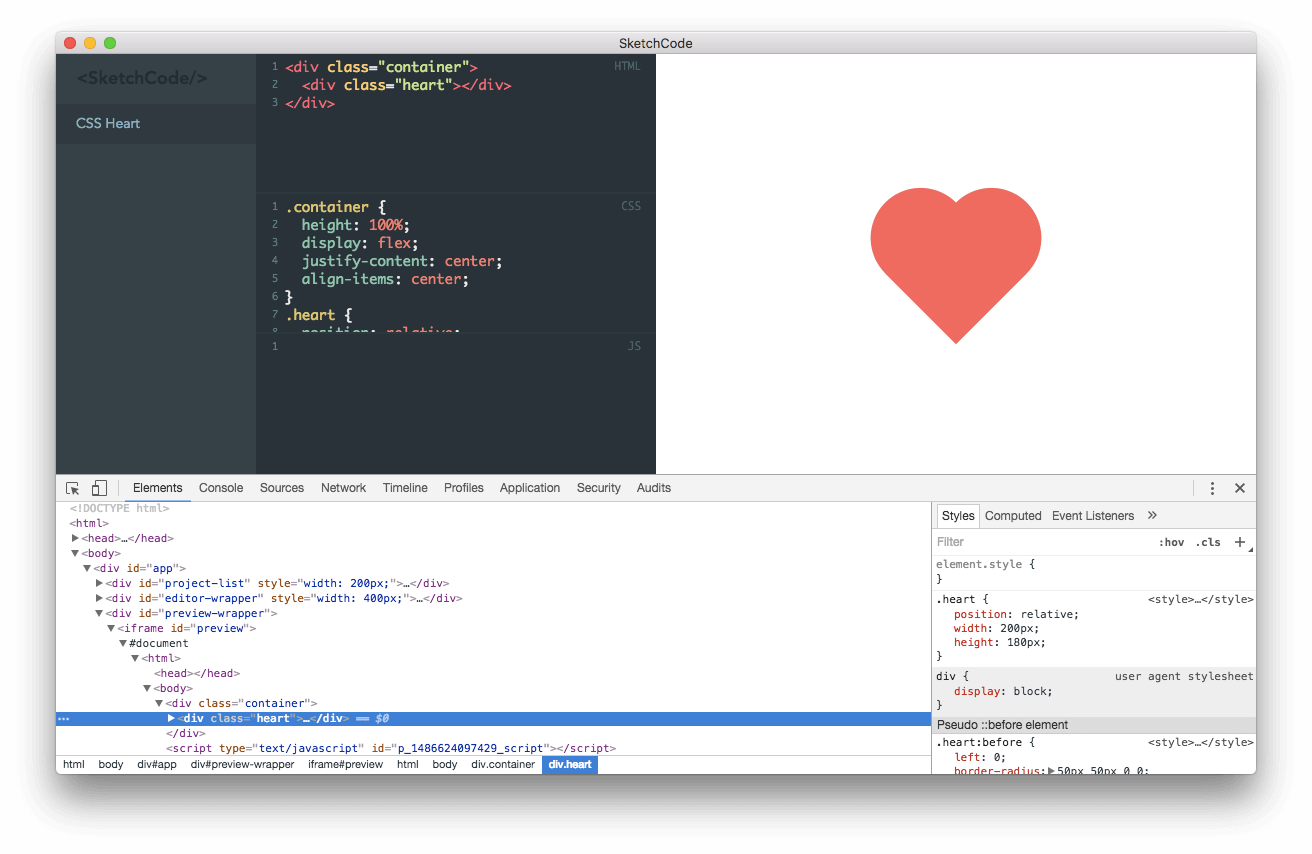
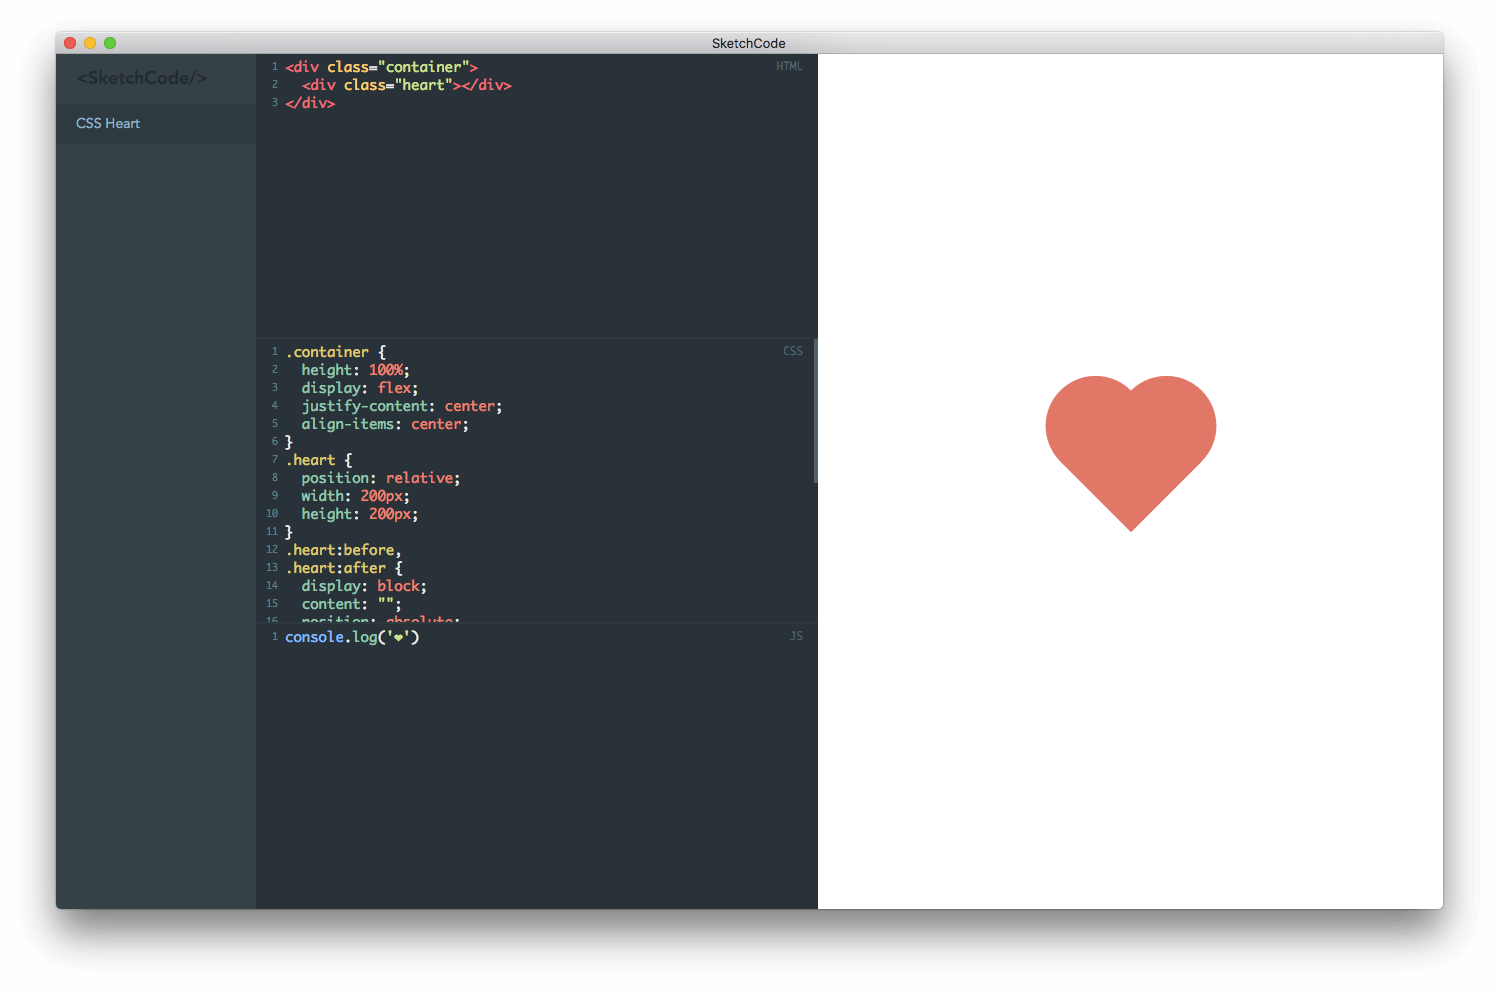
fix preview on launch

diff --git a/electron/dist/static/js/app.a2d74cfee815cdb54283.js b/electron/dist/static/js/app.a2d74cfee815cdb54283.js
@@ -1,0 +1,1 @@
+webpackJsonp([2,0],[function(t,e,i){"use strict";function n(t){return t&&t.__esModule?t:{default:t}}var r=i(22),o=n(r),s=i(79),c=n(s),d=i(26),u=n(d);o.default.config.debug={NODE_ENV:"production"}.DEBUG_MODE,new o.default({el:"#app",store:u.default,template:"<App/>",components:{App:c.default}})},,,,,,,,,function(t,e,i){"use strict";function n(t){return t&&t.__esModule?t:{default:t}}Object.defineProperty(e,"__esModule",{value:!0});var r=i(11),o=n(r),s=i(34),c=n(s),d={currentProjectId:null,projects:[]},u="sketch_code",a=window.localStorage;e.default={init:function(){var t=a.getItem(u);if(t){var e=JSON.parse(t);return(0,o.default)(e)}return a.setItem(u,(0,c.default)(d)),(0,o.default)(d)},update:function(t){a.setItem(u,(0,c.default)(t))}}},function(t,e){"use strict";Object.defineProperty(e,"__esModule",{value:!0}),e.default={SWITCH_PROJECT:"SWITCH_PROJECT",ADD_PROJECT:"ADD_PROJECT",UPDATE_PROJECT:"UPDATE_PROJECT",DESTROY_PROJECT:"DESTROY_PROJECT"}},,,,,,,,,,,,,function(t,e){"use strict";Object.defineProperty(e,"__esModule",{value:!0}),e.default={upper:function(t){return t.toString().toUpperCase()}}},function(t,e,i){"use strict";function n(t){return t&&t.__esModule?t:{default:t}}Object.defineProperty(e,"__esModule",{value:!0});var r=i(10),o=n(r);e.default={switchProject:function(t,e){var i=t.commit;i(o.default.SWITCH_PROJECT,e)},addProject:function(t,e){var i=t.commit;i(o.default.ADD_PROJECT,e)},updateProject:function(t,e){var i=t.commit;i(o.default.UPDATE_PROJECT,e)},destroyProject:function(t,e){var i=t.commit;i(o.default.DESTROY_PROJECT,e)}}},function(t,e){"use strict";Object.defineProperty(e,"__esModule",{value:!0}),e.default={currentProjectId:function(t){return t.currentProjectId},currentProject:function(t){return t.currentProjectId?t.projects.find(function(e){return e.id===t.currentProjectId}):null},projects:function(t){return t.projects},projectCount:function(t){return t.projects.length}}},function(t,e,i){"use strict";function n(t){return t&&t.__esModule?t:{default:t}}Object.defineProperty(e,"__esModule",{value:!0});var r=i(22),o=n(r),s=i(2),c=n(s),d=i(24),u=n(d),a=i(25),h=n(a),l=i(27),f=n(l),p=i(9),m=n(p);o.default.use(c.default);var v=m.default.init();e.default=new c.default.Store({state:v,getters:h.default,actions:u.default,mutations:f.default})},function(t,e,i){"use strict";function n(t){return t&&t.__esModule?t:{default:t}}function r(t,e){t.currentProjectId=e,p.default.update(t)}function o(t){var e=Date.now(),i={id:"p_"+e,name:"Untitled",html:"",style:"",js:"",created_at:e,modified_at:e};t.projects.push(i),r(t,i.id)}function s(t,e){var i=t.projects.find(function(t){return t.id===e.id});if(i){for(var n in e)i[n]=e[n];i.modified_at=Date.now()}p.default.update(t)}function c(t,e){var i=t.projects.find(function(t){return t.id===e}),n=t.projects.indexOf(i);t.projects.splice(n,1);var o=t.projects.sort(function(t,e){return t.modified_at<e.modified_at});o.length?r(t,o[0].id):r(t,null)}Object.defineProperty(e,"__esModule",{value:!0});var d,u=i(12),a=n(u),h=i(10),l=n(h),f=i(9),p=n(f);e.default=(d={},(0,a.default)(d,l.default.SWITCH_PROJECT,function(t,e){var i=e.id;r(t,i)}),(0,a.default)(d,l.default.ADD_PROJECT,function(t){o(t)}),(0,a.default)(d,l.default.UPDATE_PROJECT,function(t,e){s(t,e)}),(0,a.default)(d,l.default.DESTROY_PROJECT,function(t,e){var i=e.id;c(t,i)}),d)},function(t,e,i){"use strict";function n(t){return t&&t.__esModule?t:{default:t}}Object.defineProperty(e,"__esModule",{value:!0});var r=i(3),o=n(r),s=i(81),c=n(s),d=i(82),u=n(d),a=i(83),h=n(a),l=i(2);i(71),e.default={name:"app",data:function(){return{winWidth:0,minWidth:50,width:{projectList:200,projectListHolder:0,editorWrapper:400},moving:!1,hideProjectList:!1}},components:{EditorWrapper:c.default,Preview:u.default,ProjectList:h.default},computed:(0,o.default)({},(0,l.mapGetters)(["currentProjectId","projectCount"]),{projectListWidth:function(){return{width:this.width.projectList+"px"}},editorWrapperWidth:function(){return{width:this.width.editorWrapper+"px"}},dev:function(){return"http:"===window.location.protocol},hasProject:function(){return this.projectCount>0},tipsStyle:function(){return{left:this.width.projectList+"px"}}}),created:function(){this.winWidth=window.innerWidth,window.addEventListener("resize",this.handleResize)},mounted:function(){this.initShortcut()},methods:{handleResize:function(){this.winWidth=window.innerWidth},resize:function(t,e){var i=this;this.cleanMouseEvent();var n=t.clientX,r=this.width[e],o=this.width["editorWrapper"===e?"projectList":"editorWrapper"];this.moving=!0,window.onmousemove=function(t){var s=t.clientX-n;r+s<i.minWidth?i.width[e]=i.minWidth:i.winWidth-(r+s)-o<i.minWidth?i.width[e]=i.winWidth-i.minWidth-o:i.width[e]=r+s},window.onmouseup=this.cleanMouseEvent},cleanMouseEvent:function(){this.moving=!1,window.onmousemove=null,window.onmouseup=null},initShortcut:function(){document.addEventListener("keydown",this.shortcutKeydown,!1),document.addEventListener("keyup",this.shortcutKeyup,!1);var t=this.$refs.previewRef.$el.querySelector("iframe").contentDocument;t.addEventListener("keydown",this.shortcutKeydown,!1),t.addEventListener("keyup",this.shortcutKeyup,!1)},shortcutKeydown:function(t){91===t.keyCode?this.commandKey=!0:!this.commandKey||78!==t.keyCode&&(75===t.keyCode,1)?this.commandKey&&8===t.keyCode?this.distroyProject():this.commandKey&&191===t.keyCode&&this.toggleProjectList():this.newProject()},shortcutKeyup:function(t){this.commandKey=!1},newProject:function(){this.$store.dispatch("addProject")},distroyProject:function(){window.confirm("Are you sure to delete current project?")&&this.$store.dispatch("destroyProject",{id:this.currentProjectId}),this.commandKey=!1},toggleProjectList:function(){0===this.width.projectList?(this.width.projectList=this.width.projectListHolder,this.winWidth-this.width.projectList-this.width.editorWrapper<this.minWidth&&(this.width.editorWrapper=this.winWidth-this.width.projectList-this.minWidth)):(this.width.projectListHolder=this.width.projectList,this.width.projectList=0)}}}},function(t,e,i){"use strict";function n(t){return t&&t.__esModule?t:{default:t}}Object.defineProperty(e,"__esModule",{value:!0});var r=i(1),o=n(r);i(69),i(70),i(14),i(38),i(13),i(15),i(68),i(37);var s=i(78),c=n(s),d=i(23),u=n(d);e.default={name:"Editor",props:["type","height","code","currentProjectId"],data:function(){return{input:"",codeMirror:null}},filters:u.default,watch:{currentProjectId:function(){this.initCode()}},computed:{typeName:function(){var t={html:"html",style:"css",js:"js"};return t[this.type]}},mounted:function(){this.initEditor(),this.initCode(),this.initChange()},methods:{initEditor:function(){var t={html:"htmlmixed",style:"css",js:"javascript"};this.codeMirror=(0,o.default)(this.$el.querySelector(".inputarea"),{lineNumbers:!0,mode:t[this.type],lineWrapping:!0,theme:"material",scrollbarStyle:"overlay",tabSize:2}),this.$el.querySelector(".CodeMirror-scroll").style.height=this.$el.clientHeight},initCode:function(){this.setCodeMirrorValue(this.code)},initChange:function(){var t=this;this.codeMirror.on("change",c.default.debounce(function(){var e=t.codeMirror.getValue().trim();e!==t.code&&t.$emit("updateCode",t.type,e)},300))},setCodeMirrorValue:function(t){this.codeMirror.getDoc().setValue(t)}}}},function(t,e,i){"use strict";function n(t){return t&&t.__esModule?t:{default:t}}Object.defineProperty(e,"__esModule",{value:!0});var r=i(12),o=n(r),s=i(3),c=n(s),d=i(80),u=n(d),a=i(2);e.default={name:"EditorWrapper",props:{width:Number},data:function(){return{winHeight:0,minHeight:50,height:{html:0,style:0,js:0}}},components:{Editor:u.default},computed:(0,c.default)({},(0,a.mapGetters)(["currentProjectId","currentProject"]),{editorWrapperWidth:function(){return{width:this.width+"px"}}}),watch:{currentProjectId:function(){this.$emit("initCode")}},created:function(){this.winHeight=window.innerHeight;for(var t in this.height)this.height[t]=this.winHeight/3;window.addEventListener("resize",this.handleResize)},methods:{handleResize:function(){this.winHeight=window.innerHeight;var t=0;for(var e in this.height)t+=this.height[e];for(var i in this.height)this.height[i]=this.winHeight*this.height[i]/t},updateCode:function(t,e){this.$store.dispatch("updateProject",(0,o.default)({id:this.currentProject.id},t,e))},resizeEditor:function(t,e,i){var n=this;this.cleanMouseEvent();var r=t.clientY,o=this.height[e],s=this.height[i];document.onmousemove=function(t){var c=t.clientY-r;o+c<n.minHeight?(n.height[e]=n.minHeight,n.height[i]=o+s-n.minHeight):s-c<n.minHeight?(n.height[e]=o+s-n.minHeight,n.height[i]=n.minHeight):(n.height[i]=s-c,n.height[e]=o+c)},document.onmouseup=this.cleanMouseEvent},cleanMouseEvent:function(){document.onmousemove=null,document.onmouseup=null}}}},function(t,e,i){"use strict";function n(t){return t&&t.__esModule?t:{default:t}}Object.defineProperty(e,"__esModule",{value:!0});var r=i(3),o=n(r),s=i(2);e.default={name:"Preview",data:function(){return{html:"",style:"",js:""}},computed:(0,o.default)({},(0,s.mapGetters)(["currentProject"])),watch:{currentProject:{handler:function(t){return!!t&&void(t.html===this.html&&t.js===this.js&&t.style!==this.style?this.updateStyle():t.html===this.html&&t.js===this.js||this.update())},deep:!0}},mounted:function(){this.currentProject&&this.update()},methods:{update:function(){var t=this.$refs.previewRef.contentDocument;t.body.innerHTML=this.currentProject.html;var e=document.createElement("script");e.type="text/javascript",e.id=this.currentProject.id+"_script",e.textContent=this.currentProject.js;var i=document.createElement("style");i.type="text/css",i.id=this.currentProject.id+"_style",i.textContent=this.currentProject.style,t.body.appendChild(e),t.body.appendChild(i),this.style=this.currentProject.style,this.html=this.currentProject.html,this.js=this.currentProject.js},updateStyle:function(){console.log("updateStyle");var t=this.$refs.previewRef.contentDocument,e=t.getElementById(this.currentProject.id+"_style");e.textContent=this.currentProject.style,this.style=this.currentProject.style},cleanPreview:function(){var t=this.$refs.previewRef.contentDocument;t.body.innerHTML=""}}}},function(t,e,i){"use strict";function n(t){return t&&t.__esModule?t:{default:t}}Object.defineProperty(e,"__esModule",{value:!0});var r=i(3),o=n(r),s=i(84),c=n(s),d=i(2);e.default={name:"ProjectList",props:{width:Number},components:{ProjectName:c.default},computed:(0,o.default)({},(0,d.mapGetters)(["projects","currentProjectId"]),{sortedProjects:function(){return this.projects.slice().sort(function(t,e){return e.modified_at-t.modified_at})}})}},function(t,e){"use strict";Object.defineProperty(e,"__esModule",{value:!0}),e.default={name:"ProjectName",props:{active:Boolean,project:Object,projectListWidth:String},data:function(){return{name:"",editMode:!1}},methods:{switchProject:function(){this.$store.dispatch("switchProject",{id:this.project.id})},switchEditMode:function(){var t=this;this.editMode=!this.editMode,this.editMode?(this.name=this.project.name,setTimeout(function(){t.$refs.nameInputRef.select()},1)):this.name=""},blurInput:function(){this.$refs.nameInputRef.blur()},save:function(){var t=this,e=this.name.trim();e===this.project.name?this.switchEditMode():""===e?(this.name=this.project.name,this.switchEditMode()):this.$store.dispatch("updateProject",{id:this.project.id,name:e}).then(function(){t.switchEditMode()})},unsave:function(){this.name=this.project.name,this.switchEditMode()}}}},,,,,,,,,,,,,,,,,,,,,,,,,,,,,,,,,,,function(t,e){},function(t,e){},function(t,e){},function(t,e){},function(t,e){},function(t,e){},function(t,e){},function(t,e){},function(t,e){},function(t,e){},,function(t,e,i){var n,r;i(77),n=i(28);var o=i(90);r=n=n||{},"object"!=typeof n.default&&"function"!=typeof n.default||(r=n=n.default),"function"==typeof r&&(r=r.options),r.render=o.render,r.staticRenderFns=o.staticRenderFns,t.exports=n},function(t,e,i){var n,r;i(72),n=i(29);var o=i(85);r=n=n||{},"object"!=typeof n.default&&"function"!=typeof n.default||(r=n=n.default),"function"==typeof r&&(r=r.options),r.render=o.render,r.staticRenderFns=o.staticRenderFns,t.exports=n},function(t,e,i){var n,r;i(74),n=i(30);var o=i(87);r=n=n||{},"object"!=typeof n.default&&"function"!=typeof n.default||(r=n=n.default),"function"==typeof r&&(r=r.options),r.render=o.render,r.staticRenderFns=o.staticRenderFns,t.exports=n},function(t,e,i){var n,r;i(76),n=i(31);var o=i(89);r=n=n||{},"object"!=typeof n.default&&"function"!=typeof n.default||(r=n=n.default),"function"==typeof r&&(r=r.options),r.render=o.render,r.staticRenderFns=o.staticRenderFns,t.exports=n},function(t,e,i){var n,r;i(75),n=i(32);var o=i(88);r=n=n||{},"object"!=typeof n.default&&"function"!=typeof n.default||(r=n=n.default),"function"==typeof r&&(r=r.options),r.render=o.render,r.staticRenderFns=o.staticRenderFns,t.exports=n},function(t,e,i){var n,r;i(73),n=i(33);var o=i(86);r=n=n||{},"object"!=typeof n.default&&"function"!=typeof n.default||(r=n=n.default),"function"==typeof r&&(r=r.options),r.render=o.render,r.staticRenderFns=o.staticRenderFns,t.exports=n},function(t,e){t.exports={render:function(){var t=this,e=t.$createElement,i=t._self._c||e;return i("div",{class:"editor editor-"+t.type,style:{height:t.height+"px"}},[i("div",{staticClass:"type"},[t._v(t._s(t.typeName))]),t._v(" "),i("div",{staticClass:"inputarea"}),t._v(" "),t._t("default")],2)},staticRenderFns:[]}},function(t,e){t.exports={render:function(){var t=this,e=t.$createElement,i=t._self._c||e;return i("div",{staticClass:"item",class:{active:t.active,"edit-mode":t.editMode}},[i("div",{directives:[{name:"show",rawName:"v-show",value:!t.editMode,expression:"!editMode"}],staticClass:"name",on:{click:t.switchProject,dblclick:t.switchEditMode}},[t._v(t._s(t.project.name))]),t._v(" "),i("input",{directives:[{name:"show",rawName:"v-show",value:t.editMode,expression:"editMode"},{name:"model",rawName:"v-model",value:t.name,expression:"name"}],ref:"nameInputRef",staticClass:"name-input",attrs:{type:"text"},domProps:{value:t._s(t.name)},on:{blur:t.save,keyup:[function(e){t._k(e.keyCode,"enter",13)||t.blurInput(e)},function(e){t._k(e.keyCode,"esc",27)||t.unsave(e)}],input:function(e){e.target.composing||(t.name=e.target.value)}}})])},staticRenderFns:[]}},function(t,e){t.exports={render:function(){var t=this,e=t.$createElement,i=t._self._c||e;return i("div",{style:t.editorWrapperWidth,attrs:{id:"editor-wrapper"}},[t.currentProject?i("div",[i("Editor",{attrs:{type:"html",height:t.height.html,code:t.currentProject.html,currentProjectId:t.currentProjectId},on:{updateCode:t.updateCode}},[i("div",{staticClass:"row-resizer",on:{mousedown:function(e){t.resizeEditor(e,"html","style")}}})]),t._v(" "),i("Editor",{attrs:{type:"style",height:t.height.style,code:t.currentProject.style,currentProjectId:t.currentProjectId},on:{updateCode:t.updateCode}},[i("div",{staticClass:"row-resizer",on:{mousedown:function(e){t.resizeEditor(e,"style","js")}}})]),t._v(" "),i("Editor",{attrs:{type:"js",height:t.height.js,code:t.currentProject.js,currentProjectId:t.currentProjectId},on:{updateCode:t.updateCode}})],1):t._e(),t._v(" "),t._t("default")],2)},staticRenderFns:[]}},function(t,e){t.exports={render:function(){var t=this,e=t.$createElement,i=t._self._c||e;return i("div",{attrs:{id:"project-list"}},[i("h1",{staticClass:"logo"},[t._v("<SketchCode/>")]),t._v(" "),i("div",{staticClass:"list"},[i("div",{staticClass:"inner"},t._l(t.sortedProjects,function(e){return i("ProjectName",{attrs:{project:e,active:e.id===t.currentProjectId}})}))]),t._v(" "),t._t("default")],2)},staticRenderFns:[]}},function(t,e){t.exports={render:function(){var t=this,e=t.$createElement,i=t._self._c||e;return i("div",{attrs:{id:"preview-wrapper"}},[i("iframe",{ref:"previewRef",attrs:{id:"preview"}}),t._v(" "),t._t("default")],2)},staticRenderFns:[]}},function(t,e){t.exports={render:function(){var t=this,e=t.$createElement,i=t._self._c||e;return i("div",{attrs:{id:"app"}},[i("ProjectList",{class:{transition:!t.moving},style:t.projectListWidth},[i("div",{staticClass:"resizer",on:{mousedown:function(e){t.resize(e,"projectList")}}})]),t._v(" "),i("EditorWrapper",{class:{transition:!t.moving},style:t.editorWrapperWidth},[i("div",{staticClass:"resizer",on:{mousedown:function(e){t.resize(e,"editorWrapper")}}})]),t._v(" "),i("Preview",{ref:"previewRef"},[i("div",{directives:[{name:"show",rawName:"v-show",value:t.moving,expression:"moving"}],staticClass:"mask"})]),t._v(" "),i("div",{directives:[{name:"show",rawName:"v-show",value:!t.hasProject,expression:"!hasProject"}],staticClass:"transition",style:t.tipsStyle,attrs:{id:"tips"}},[i("ul",[t._m(0),t._v(" "),i("li",[t.dev?i("b",[t._v("⌘ + K")]):i("b",[t._v("⌘ + N")]),t._v(" to create a new project")]),t._v(" "),t._m(1),t._v(" "),t._m(2)])])],1)},staticRenderFns:[function(){var t=this,e=t.$createElement,i=t._self._c||e;return i("li",[i("b",[t._v("⌘ + /")]),t._v(" to toggle sidebar")])},function(){var t=this,e=t.$createElement,i=t._self._c||e;return i("li",[i("b",[t._v("⌘ + Del")]),t._v(" to delete current project")])},function(){var t=this,e=t.$createElement,i=t._self._c||e;return i("li",[i("b",[t._v("Double Click")]),t._v(" project title to rename")])}]}}]);

diff --git a/electron/dist/index.html b/electron/dist/index.html
@@ -1,1 +1,1 @@
-<!DOCTYPE html><html><head><meta charset=utf-8><title>SketchCode</title><link href=./static/css/app.9d9742a0fec92eb6f57f3a53e34295ee.css rel=stylesheet></head><body><div id=app></div><script type=text/javascript src=./static/js/manifest.0df060d113101e6a64a9.js></script><script type=text/javascript src=./static/js/vendor.59b85a65ec429aa040a4.js></script><script type=text/javascript src=./static/js/app.20c142c80a412a1b12c2.js></script></body></html>
+<!DOCTYPE html><html><head><meta charset=utf-8><title>SketchCode</title><link href=./static/css/app.9d9742a0fec92eb6f57f3a53e34295ee.css rel=stylesheet></head><body><div id=app></div><script type=text/javascript src=./static/js/manifest.38b97521f05d2aff910d.js></script><script type=text/javascript src=./static/js/vendor.59b85a65ec429aa040a4.js></script><script type=text/javascript src=./static/js/app.a2d74cfee815cdb54283.js></script></body></html>

diff --git a/electron/dist/static/js/manifest.38b97521f05d2aff910d.js b/electron/dist/static/js/manifest.38b97521f05d2aff910d.js
@@ -1,0 +1,1 @@
+!function(e){function t(a){if(n[a])return n[a].exports;var r=n[a]={exports:{},id:a,loaded:!1};return e[a].call(r.exports,r,r.exports,t),r.loaded=!0,r.exports}var a=window.webpackJsonp;window.webpackJsonp=function(c,o){for(var p,s,l=0,i=[];l<c.length;l++)s=c[l],r[s]&&i.push.apply(i,r[s]),r[s]=0;for(p in o)e[p]=o[p];for(a&&a(c,o);i.length;)i.shift().call(null,t);if(o[0])return n[0]=0,t(0)};var n={},r={0:0};t.e=function(e,a){if(0===r[e])return a.call(null,t);if(void 0!==r[e])r[e].push(a);else{r[e]=[a];var n=document.getElementsByTagName("head")[0],c=document.createElement("script");c.type="text/javascript",c.charset="utf-8",c.async=!0,c.src=t.p+"static/js/"+e+"."+{1:"59b85a65ec429aa040a4",2:"a2d74cfee815cdb54283"}[e]+".js",n.appendChild(c)}},t.m=e,t.c=n,t.p="./"}([]);

diff --git a/app/src/components/Preview.vue b/app/src/components/Preview.vue
@@ -37,9 +37,13 @@ export default {
       deep: true
     }
   },
+  mounted () {
+    if (this.currentProject) {
+      this.update()
+    }
+  },
   methods: {
     update () {
-      console.log('update')
       let doc = this.$refs.previewRef.contentDocument
       doc.body.innerHTML = this.currentProject.html
       let script = document.createElement('script')

diff --git a/electron/app.js b/electron/app.js
@@ -20,6 +20,7 @@ exports.load = (appUrl) => {
     }
     
     mainWindow = new BrowserWindow(options)
+    mainWindow.maximize()
     mainWindow.loadURL(appUrl)
     mainWindow.focus()
   })
